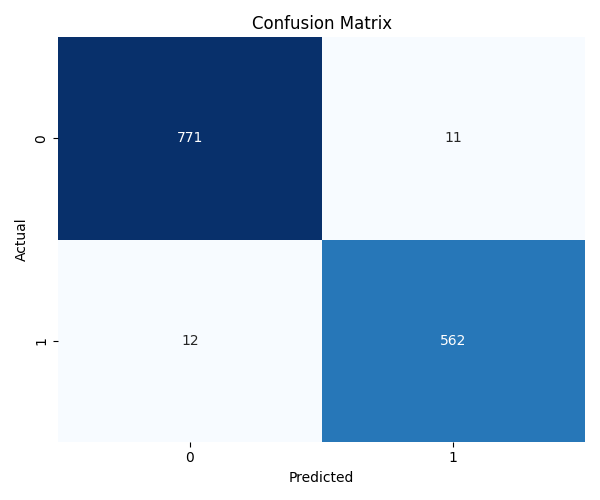
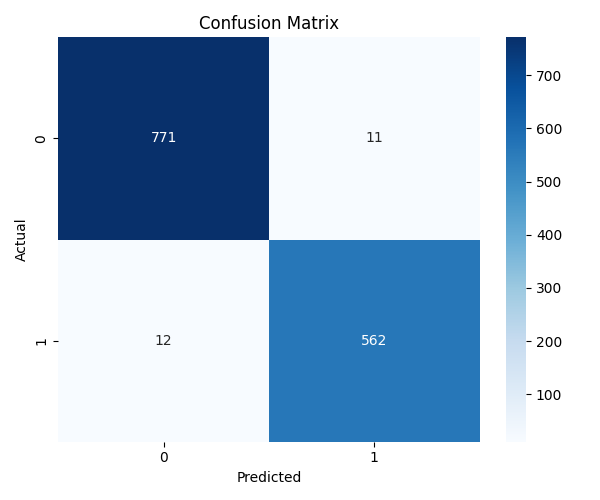
finished eda graphs

diff --git a/eda.py b/eda.py
@@ -13,11 +13,20 @@ project_root = Path(__file__).resolve().parent
 csv_path = project_root /'data' /'clean_data' /'new_data.csv'
 
 dataset = pd.read_csv(csv_path)
+dataset.rename(columns={
+    'item 1 (i found the course intellectually stimulating)': 'item 1',
+    'item 2 (the course provided me with a deep understanding of the subject manner)': 'item 2',
+    'item 3 (the instructor created a course atmosphere that was condusive to my learning)': 'item 3',
+    'item 4 (course projects, assignments, tests, and/or exams improved my understanding of the course material)': 'item 4',
+    'item 5 (course projects, assignments, tests, '
+    'and/or exams provided opportunity for me to demonstrate an understanding of the course material)': 'item 5',
+    'item 6 (overall, the quality of my learning experience in the course was:)': 'item 6'
+}, inplace=True)
 
 # Basic Overview
 print("\n")
 print("Dataset Info")
-print(dataset.info())
+print(dataset.drop(columns=['dept', 'division', ]).info())
 
 print("\n")
 print("Dataset Shape")
@@ -25,8 +34,88 @@ print(f"Rows: {dataset.shape[0]}, Columns: {dataset.shape[1]}")
 
 print("\n")
 print("Dataset Summary Statistics")
-print(dataset.describe(include='all'))
+print(dataset.drop(columns=['dept', 'division', ]).describe(include='all'))
 print("\n")
+
+
+
+#-----------------------------------------------------
+
+def plot_dataset_info(df, filepath):
+    info_df = pd.DataFrame({
+        'Column': df.columns,
+        'Non-null count': df.notnull().sum(),
+        'Dtype': df.dtypes.astype(str)
+    })
+
+    fig, ax = plt.subplots(figsize=(8, len(df.columns)*0.5))
+    ax.axis('off')
+
+    table_data = info_df.values
+    col_labels = info_df.columns.tolist()
+
+    table = ax.table(cellText=table_data,
+                     colLabels=col_labels,
+                     cellLoc='center',
+                     loc='center')
+
+    table.auto_set_font_size(False)
+    table.set_fontsize(12)
+    table.scale(1, 1.5)
+    plt.title('Dataset Info: Non-null counts and Data Types', fontsize=14)
+    plt.tight_layout()
+    plot_path = project_root /'graphs' / filepath
+    plt.savefig(plot_path)
+    plt.close()
+
+def plot_dataset_shape(df, filepath):
+    shape_data = {'Rows': df.shape[0], 'Columns': df.shape[1]}
+    fig, ax = plt.subplots(figsize=(5, 4))
+    ax.bar(shape_data.keys(), shape_data.values(), color=['skyblue', 'salmon'])
+    ax.set_ylabel('Count')
+    ax.set_title('Dataset Shape')
+    for i, v in enumerate(shape_data.values()):
+        ax.text(i, v + max(shape_data.values()) * 0.02, str(v), ha='center', fontweight='bold')
+    plt.tight_layout()
+    plot_path = project_root / 'graphs' / filepath
+    plt.savefig(plot_path)
+    plt.close()
+
+def plot_summary_stats(df, filepath):
+    summary = df.describe().T  # Numeric summary stats
+    # Select subset of stats to plot
+    stats_to_plot = ['mean', 'std', 'min', '25%', '50%', '75%', 'max']
+
+    summary = summary[stats_to_plot]
+
+    plt.figure(figsize=(10, len(summary)*0.5))
+    sns.heatmap(summary, annot=True, cmap=sns.color_palette(["#4C72B0"]), cbar=False, fmt=".2f")
+    plt.title('Numerical Features Summaries')
+    plt.tight_layout()
+    plot_path = project_root / 'graphs' / filepath
+    plt.savefig(plot_path)
+    plt.close()
+
+plot_dataset_info(dataset, 'dataset_info.png')
+plot_dataset_shape(dataset, 'dataset_shape.png')
+plot_summary_stats(dataset, 'summary_stats.png')
+
+# Categorical Summary Stats
+categorical_features = dataset.select_dtypes(exclude=["number"])
+cat_summary = pd.DataFrame({
+    'Unique Values': categorical_features.nunique(),
+    'Most Frequent': categorical_features.mode().iloc[0],
+    'Frequency': categorical_features.apply(lambda x: x.value_counts().iloc[0])
+})
+
+plt.figure(figsize=(8, len(cat_summary) * 0.5 + 1))
+sns.heatmap(cat_summary[['Unique Values', 'Frequency']],
+            annot=True, fmt='g', cmap=sns.color_palette(["#66c2a5"]),
+            cbar=False)
+plt.title("Categorical Variable Summary")
+plt.tight_layout()
+cat_path = project_root / 'graphs' / 'categorical_summaries.png'
+plt.savefig(cat_path)
 
 # Missing Values (might get rid of this one)
 
@@ -69,7 +158,7 @@ categorical_features = (dataset.select_dtypes(exclude=["number"]).drop(columns=[
                                                                          'description']).columns.tolist())
 
 # scuffed
-df_long = dataset.melt(id_vars=['i would recommend this course'], value_vars=numerical_features,
+"""df_long = dataset.melt(id_vars=['i would recommend this course'], value_vars=numerical_features,
                   var_name='feature', value_name='feature_value')
 
 g = sns.relplot(
@@ -79,5 +168,6 @@ g.set_axis_labels("Feature Value", 'i would recommend this course')
 g.set_titles("{col_name}")
 plt.title("Pair plot of Numerical Recommendation")
 path_scatter = project_root / 'graphs' / 'scatter.png'
-plt.savefig(path_scatter)
+plt.savefig(path_scatter)"""
+
 

diff --git a/models/decision_tree.py b/models/decision_tree.py
@@ -91,7 +91,7 @@ print(project_root)
 
 #confusion matrix
 plt.figure(figsize=(6, 5))
-sns.heatmap(con_mat, annot=True, fmt='d', cmap='Blues', cbar=False)
+sns.heatmap(con_mat, annot=True, fmt='d', cmap='Blues', cbar=True)
 plt.title('Confusion Matrix')
 plt.xlabel('Predicted')
 plt.ylabel('Actual')
